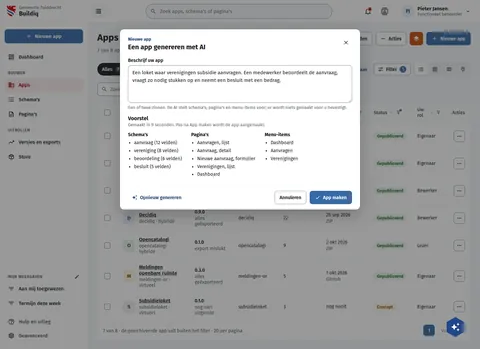
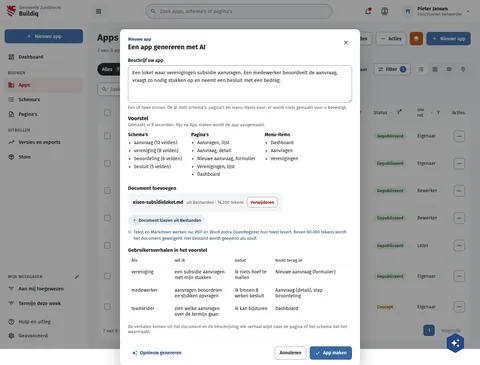
feat(screens): start from a database and a requirements document on the new app boards
Rows: app-create-from-database, ai-spec-to-app.

Assisted-by: ClaudeCode:claude-fable-5-1

diff --git a/preview/screens/boards/BqNieuweApp.html b/preview/screens/boards/BqNieuweApp.html
@@ -307,6 +307,7 @@ a{color:var(--sc-primary, #3669a5)}a:hover{color:var(--sc-primary-deep, #234a78)
           <div style="display: flex; flex-wrap: wrap; gap: 14px; align-items: center"><span title="In de appkop (licht pictogram)" style="width: 48px; height: 48px; border-radius: 10px; background: var(--sc-work-ink, #1b1c1d); color: #ffffff; display: flex; align-items: center; justify-content: center"><svg width="26" height="26" viewbox="0 0 24 24" fill="currentColor" aria-hidden="true"><path d="M5,6H23V18H5V6M14,9A3,3 0 0,1 17,12A3,3 0 0,1 14,15A3,3 0 0,1 11,12A3,3 0 0,1 14,9M9,8A2,2 0 0,1 7,10V14A2,2 0 0,1 9,16H19A2,2 0 0,1 21,14V10A2,2 0 0,1 19,8H9M1,10H3V20H19V22H1V10Z"></path></svg></span><span title="Op een lichte achtergrond (donker pictogram)" style="width: 48px; height: 48px; border-radius: 10px; background: var(--sc-work-chip, #f0f1f3); color: var(--sc-work-ink, #1b1c1d); display: flex; align-items: center; justify-content: center"><svg width="26" height="26" viewbox="0 0 24 24" fill="currentColor" aria-hidden="true"><path d="M5,6H23V18H5V6M14,9A3,3 0 0,1 17,12A3,3 0 0,1 14,15A3,3 0 0,1 11,12A3,3 0 0,1 14,9M9,8A2,2 0 0,1 7,10V14A2,2 0 0,1 9,16H19A2,2 0 0,1 21,14V10A2,2 0 0,1 19,8H9M1,10H3V20H19V22H1V10Z"></path></svg></span><button type="button" style="display: flex; align-items: center; gap: 8px; height: 40px; padding: 0 14px; border: 1px solid var(--sc-work-field, #828a95); border-radius: 8px; background: #ffffff; font: 600 14px var(--sc-font, 'Fira Sans'), sans-serif; color: var(--sc-work-ink, #1b1c1d)"><svg width="16" height="16" viewbox="0 0 24 24" fill="currentColor" aria-hidden="true"><path d="M9,10V16H15V10H19L12,3L5,10H9M12,5.8L14.2,8H13V14H11V8H9.8L12,5.8M19,18H5V20H19V18Z"></path></svg>Eigen SVG uploaden</button><a href="#" style="font-size: 14px; font-weight: 600">Een donkere variant toevoegen</a></div>
         </div>
       </div>
+      <div style="padding: 0 24px 20px; display: flex; flex-direction: column; gap: 16px"><fieldset style="border: 0; margin: 0; padding: 0; display: flex; flex-direction: column; gap: 10px"><legend style="font-size: 15px; font-weight: 700; padding: 0 0 6px">Beginnen vanuit een database</legend><div style="display: flex; flex-wrap: wrap; gap: 18px; align-items: flex-end"><label for="f1" style="display: flex; gap: 10px; align-items: flex-start; font-size: 15px; position: relative"><input id="f1" type="radio" name="st" style="position: absolute; opacity: 0; width: 20px; height: 20px; margin: 0"><span aria-hidden="true" style="flex: none; width: 20px; height: 20px; box-sizing: border-box; border-radius: 10px; border: 2px solid var(--sc-work-muted, #5e6168); display: flex; align-items: center; justify-content: center; margin-top: 1px"></span><span>Leeg</span></label><label for="f2" style="display: flex; gap: 10px; align-items: flex-start; font-size: 15px; position: relative"><input id="f2" type="radio" name="st" style="position: absolute; opacity: 0; width: 20px; height: 20px; margin: 0"><span aria-hidden="true" style="flex: none; width: 20px; height: 20px; box-sizing: border-box; border-radius: 10px; border: 2px solid var(--sc-work-muted, #5e6168); display: flex; align-items: center; justify-content: center; margin-top: 1px"></span><span>Vanuit een sjabloon</span></label><label for="f3" style="display: flex; gap: 10px; align-items: flex-start; font-size: 15px; position: relative"><input id="f3" type="radio" name="st" style="position: absolute; opacity: 0; width: 20px; height: 20px; margin: 0"><span aria-hidden="true" style="flex: none; width: 20px; height: 20px; box-sizing: border-box; border-radius: 10px; border: 2px solid var(--sc-work-muted, #5e6168); display: flex; align-items: center; justify-content: center; margin-top: 1px"></span><span>Genereren met AI</span></label><label for="f4" style="display: flex; gap: 10px; align-items: flex-start; font-size: 15px; position: relative"><input id="f4" type="radio" name="st" checked style="position: absolute; opacity: 0; width: 20px; height: 20px; margin: 0"><span aria-hidden="true" style="flex: none; width: 20px; height: 20px; box-sizing: border-box; border-radius: 10px; border: 2px solid var(--sc-primary, #3669a5); display: flex; align-items: center; justify-content: center; margin-top: 1px"><span style="width: 10px; height: 10px; border-radius: 5px; background: var(--sc-primary, #3669a5)"></span></span><span>Vanuit een database</span></label></div><div style="display: grid; grid-template-columns: repeat(auto-fit, minmax(150px, 1fr)); gap: 12px"><div style="display: flex; flex-direction: column; gap: 6px; min-width: 0"><label for="f5" style="font-size: 14px; font-weight: 600">Gekoppelde database</label><button type="button" id="f5" aria-haspopup="listbox" style="display: flex; align-items: center; justify-content: space-between; gap: 8px; height: 40px; box-sizing: border-box; width: 100%; border: 1px solid var(--sc-work-field, #828a95); border-radius: 8px; padding: 0 12px; background: #ffffff; font: 400 15px var(--sc-font, 'Fira Sans'), sans-serif; color: var(--sc-work-ink, #1b1c1d); text-align: left"><span style="overflow: hidden; text-overflow: ellipsis; white-space: nowrap">crm-legacy (PostgreSQL, alleen lezen)</span><svg width="18" height="18" viewbox="0 0 24 24" fill="currentColor"><path d="M7.41,8.58L12,13.17L16.59,8.58L18,10L12,16L6,10L7.41,8.58Z"></path></svg></button></div></div><table style="width: 100%; border-collapse: collapse"><thead><tr><th scope="col" style="text-align: left; padding: 8px 10px; font-size: 13px; color: var(--sc-work-muted, #5e6168); font-weight: 600; border-bottom: 1px solid var(--sc-work-line, #e4e6ea); width: 200px">Tabel</th><th scope="col" style="text-align: left; padding: 8px 10px; font-size: 13px; color: var(--sc-work-muted, #5e6168); font-weight: 600; border-bottom: 1px solid var(--sc-work-line, #e4e6ea); width: 90px">Rijen</th><th scope="col" style="text-align: left; padding: 8px 10px; font-size: 13px; color: var(--sc-work-muted, #5e6168); font-weight: 600; border-bottom: 1px solid var(--sc-work-line, #e4e6ea)">Pagina's die ontstaan</th></tr></thead><tbody><tr><td style="padding: 10px 10px; font-size: 14px; border-bottom: 1px solid var(--sc-work-soft, #eef0f3); vertical-align: top"><label for="f6" style="display: flex; gap: 10px; align-items: flex-start; font-size: 15px; position: relative"><input id="f6" type="checkbox" checked style="position: absolute; opacity: 0; width: 20px; height: 20px; margin: 0"><span aria-hidden="true" style="flex: none; width: 20px; height: 20px; box-sizing: border-box; border-radius: 4px; margin-top: 1px; display: flex; align-items: center; justify-content: center; border: 2px solid var(--sc-primary, #3669a5); background: var(--sc-primary, #3669a5); color: #ffffff"><svg width="14" height="14" viewbox="0 0 24 24" fill="currentColor"><path d="M21,7L9,19L3.5,13.5L4.91,12.09L9,16.17L19.59,5.59L21,7Z"></path></svg></span><span>klanten</span></label></td><td style="padding: 10px 10px; font-size: 14px; border-bottom: 1px solid var(--sc-work-soft, #eef0f3); vertical-align: top">12.480</td><td style="padding: 10px 10px; font-size: 14px; border-bottom: 1px solid var(--sc-work-soft, #eef0f3); vertical-align: top">Klanten (lijst), Klant (detail)</td></tr><tr><td style="padding: 10px 10px; font-size: 14px; border-bottom: 1px solid var(--sc-work-soft, #eef0f3); vertical-align: top"><label for="f7" style="display: flex; gap: 10px; align-items: flex-start; font-size: 15px; position: relative"><input id="f7" type="checkbox" checked style="position: absolute; opacity: 0; width: 20px; height: 20px; margin: 0"><span aria-hidden="true" style="flex: none; width: 20px; height: 20px; box-sizing: border-box; border-radius: 4px; margin-top: 1px; display: flex; align-items: center; justify-content: center; border: 2px solid var(--sc-primary, #3669a5); background: var(--sc-primary, #3669a5); color: #ffffff"><svg width="14" height="14" viewbox="0 0 24 24" fill="currentColor"><path d="M21,7L9,19L3.5,13.5L4.91,12.09L9,16.17L19.59,5.59L21,7Z"></path></svg></span><span>contracten</span></label></td><td style="padding: 10px 10px; font-size: 14px; border-bottom: 1px solid var(--sc-work-soft, #eef0f3); vertical-align: top">31.902</td><td style="padding: 10px 10px; font-size: 14px; border-bottom: 1px solid var(--sc-work-soft, #eef0f3); vertical-align: top">Contracten (lijst), Contract (detail)</td></tr><tr><td style="padding: 10px 10px; font-size: 14px; border-bottom: 1px solid var(--sc-work-soft, #eef0f3); vertical-align: top"><label for="f8" style="display: flex; gap: 10px; align-items: flex-start; font-size: 15px; position: relative"><input id="f8" type="checkbox" style="position: absolute; opacity: 0; width: 20px; height: 20px; margin: 0"><span aria-hidden="true" style="flex: none; width: 20px; height: 20px; box-sizing: border-box; border-radius: 4px; margin-top: 1px; display: flex; align-items: center; justify-content: center; border: 2px solid var(--sc-work-muted, #5e6168); background: #ffffff"></span><span>facturen</span></label></td><td style="padding: 10px 10px; font-size: 14px; border-bottom: 1px solid var(--sc-work-soft, #eef0f3); vertical-align: top">88.115</td><td style="padding: 10px 10px; font-size: 14px; border-bottom: 1px solid var(--sc-work-soft, #eef0f3); vertical-align: top"></td></tr></tbody></table><div style="display: flex; gap: 6px; align-items: flex-start; font-size: 13px; line-height: 1.45; color: var(--sc-primary-deep, #234a78)"><svg width="16" height="16" viewbox="0 0 24 24" fill="currentColor"><path d="M11,9H13V7H11M12,20C7.59,20 4,16.41 4,12C4,7.59 7.59,4 12,4C16.41,4 20,7.59 20,12C20,16.41 16.41,20 12,20M12,2A10,10 0 0,0 2,12A10,10 0 0,0 12,22A10,10 0 0,0 22,12A10,10 0 0,0 12,2M11,17H13V11H11V17Z"></path></svg><span>De database wordt dataregister van de app; per aangevinkte tabel komt er een lijst- en een detailpagina. Een register zonder databasebron of dat u niet mag lezen, wordt geweigerd en er wordt niets gemaakt.</span></div></fieldset></div>
       <div style="display: flex; flex-wrap: wrap; justify-content: flex-end; align-items: center; gap: 10px; padding: 16px 24px; border-top: 1px solid var(--sc-work-soft, #eef0f3)"><button type="button" style="display: inline-flex; align-items: center; gap: 8px; height: 40px; padding: 0 14px; box-sizing: border-box; border: 1px solid var(--sc-work-field, #828a95); border-radius: 8px; background: #ffffff; font: 600 14px var(--sc-font, 'Fira Sans'), sans-serif; color: var(--sc-work-ink, #1b1c1d); white-space: nowrap">Annuleren</button><button type="button" style="display: inline-flex; align-items: center; gap: 8px; height: 40px; padding: 0 16px; border: 0; border-radius: 8px; background: var(--sc-primary, #3669a5); color: #ffffff; font: 600 14px var(--sc-font, 'Fira Sans'), sans-serif; white-space: nowrap">Volgende<svg width="16" height="16" viewbox="0 0 24 24" fill="currentColor" aria-hidden="true"><path d="M8.59,16.58L13.17,12L8.59,7.41L10,6L16,12L10,18L8.59,16.58Z"></path></svg></button></div>
     </div>
   </div>

diff --git a/screens-src/zuiddrecht/BqNieuweApp.dc.html b/screens-src/zuiddrecht/BqNieuweApp.dc.html
@@ -114,12 +114,13 @@ a{color:#3669a5}a:hover{color:#234a78}
           <div style="display: flex; flex-wrap: wrap; gap: 14px; align-items: center"><span title="In de appkop (licht pictogram)" style="width: 48px; height: 48px; border-radius: 10px; background: #1b1c1d; color: #ffffff; display: flex; align-items: center; justify-content: center"><svg width="26" height="26" viewBox="0 0 24 24" fill="currentColor" aria-hidden="true"><path d="M5,6H23V18H5V6M14,9A3,3 0 0,1 17,12A3,3 0 0,1 14,15A3,3 0 0,1 11,12A3,3 0 0,1 14,9M9,8A2,2 0 0,1 7,10V14A2,2 0 0,1 9,16H19A2,2 0 0,1 21,14V10A2,2 0 0,1 19,8H9M1,10H3V20H19V22H1V10Z"></path></svg></span><span title="Op een lichte achtergrond (donker pictogram)" style="width: 48px; height: 48px; border-radius: 10px; background: #f0f1f3; color: #1b1c1d; display: flex; align-items: center; justify-content: center"><svg width="26" height="26" viewBox="0 0 24 24" fill="currentColor" aria-hidden="true"><path d="M5,6H23V18H5V6M14,9A3,3 0 0,1 17,12A3,3 0 0,1 14,15A3,3 0 0,1 11,12A3,3 0 0,1 14,9M9,8A2,2 0 0,1 7,10V14A2,2 0 0,1 9,16H19A2,2 0 0,1 21,14V10A2,2 0 0,1 19,8H9M1,10H3V20H19V22H1V10Z"></path></svg></span><button type="button" style="display: flex; align-items: center; gap: 8px; height: 40px; padding: 0 14px; border: 1px solid #828a95; border-radius: 8px; background: #ffffff; font: 600 14px 'Fira Sans', sans-serif; color: #1b1c1d"><svg width="16" height="16" viewBox="0 0 24 24" fill="currentColor" aria-hidden="true"><path d="M9,10V16H15V10H19L12,3L5,10H9M12,5.8L14.2,8H13V14H11V8H9.8L12,5.8M19,18H5V20H19V18Z"></path></svg>Eigen SVG uploaden</button><a href="#" style="font-size: 14px; font-weight: 600">Een donkere variant toevoegen</a></div>
         </div>
       </div>
+      <div style="padding: 0 24px 20px; display: flex; flex-direction: column; gap: 16px"><fieldset style="border: 0; margin: 0; padding: 0; display: flex; flex-direction: column; gap: 10px"><legend style="font-size: 15px; font-weight: 700; padding: 0 0 6px">Beginnen vanuit een database</legend><div style="display: flex; flex-wrap: wrap; gap: 18px; align-items: flex-end"><label for="f1" style="display: flex; gap: 10px; align-items: flex-start; font-size: 15px; position: relative"><input id="f1" type="radio" name="st" style="position: absolute; opacity: 0; width: 20px; height: 20px; margin: 0"><span aria-hidden="true" style="flex: none; width: 20px; height: 20px; box-sizing: border-box; border-radius: 10px; border: 2px solid #5e6168; display: flex; align-items: center; justify-content: center; margin-top: 1px"></span><span>Leeg</span></label><label for="f2" style="display: flex; gap: 10px; align-items: flex-start; font-size: 15px; position: relative"><input id="f2" type="radio" name="st" style="position: absolute; opacity: 0; width: 20px; height: 20px; margin: 0"><span aria-hidden="true" style="flex: none; width: 20px; height: 20px; box-sizing: border-box; border-radius: 10px; border: 2px solid #5e6168; display: flex; align-items: center; justify-content: center; margin-top: 1px"></span><span>Vanuit een sjabloon</span></label><label for="f3" style="display: flex; gap: 10px; align-items: flex-start; font-size: 15px; position: relative"><input id="f3" type="radio" name="st" style="position: absolute; opacity: 0; width: 20px; height: 20px; margin: 0"><span aria-hidden="true" style="flex: none; width: 20px; height: 20px; box-sizing: border-box; border-radius: 10px; border: 2px solid #5e6168; display: flex; align-items: center; justify-content: center; margin-top: 1px"></span><span>Genereren met AI</span></label><label for="f4" style="display: flex; gap: 10px; align-items: flex-start; font-size: 15px; position: relative"><input id="f4" type="radio" name="st" checked style="position: absolute; opacity: 0; width: 20px; height: 20px; margin: 0"><span aria-hidden="true" style="flex: none; width: 20px; height: 20px; box-sizing: border-box; border-radius: 10px; border: 2px solid #3669a5; display: flex; align-items: center; justify-content: center; margin-top: 1px"><span style="width: 10px; height: 10px; border-radius: 5px; background: #3669a5"></span></span><span>Vanuit een database</span></label></div><div style="display: grid; grid-template-columns: repeat(auto-fit, minmax(150px, 1fr)); gap: 12px"><div style="display: flex; flex-direction: column; gap: 6px; min-width: 0"><label for="f5" style="font-size: 14px; font-weight: 600">Gekoppelde database</label><button type="button" id="f5" aria-haspopup="listbox" style="display: flex; align-items: center; justify-content: space-between; gap: 8px; height: 40px; box-sizing: border-box; width: 100%; border: 1px solid #828a95; border-radius: 8px; padding: 0 12px; background: #ffffff; font: 400 15px 'Fira Sans', sans-serif; color: #1b1c1d; text-align: left"><span style="overflow: hidden; text-overflow: ellipsis; white-space: nowrap">crm-legacy (PostgreSQL, alleen lezen)</span><svg width="18" height="18" viewBox="0 0 24 24" fill="currentColor"><path d="M7.41,8.58L12,13.17L16.59,8.58L18,10L12,16L6,10L7.41,8.58Z"></path></svg></button></div></div><table style="width: 100%; border-collapse: collapse"><thead><tr><th scope="col" style="text-align: left; padding: 8px 10px; font-size: 13px; color: #5e6168; font-weight: 600; border-bottom: 1px solid #e4e6ea; width: 200px">Tabel</th><th scope="col" style="text-align: left; padding: 8px 10px; font-size: 13px; color: #5e6168; font-weight: 600; border-bottom: 1px solid #e4e6ea; width: 90px">Rijen</th><th scope="col" style="text-align: left; padding: 8px 10px; font-size: 13px; color: #5e6168; font-weight: 600; border-bottom: 1px solid #e4e6ea">Pagina's die ontstaan</th></tr></thead><tbody><tr><td style="padding: 10px 10px; font-size: 14px; border-bottom: 1px solid #eef0f3; vertical-align: top"><label for="f6" style="display: flex; gap: 10px; align-items: flex-start; font-size: 15px; position: relative"><input id="f6" type="checkbox" checked style="position: absolute; opacity: 0; width: 20px; height: 20px; margin: 0"><span aria-hidden="true" style="flex: none; width: 20px; height: 20px; box-sizing: border-box; border-radius: 4px; margin-top: 1px; display: flex; align-items: center; justify-content: center; border: 2px solid #3669a5; background: #3669a5; color: #ffffff"><svg width="14" height="14" viewBox="0 0 24 24" fill="currentColor"><path d="M21,7L9,19L3.5,13.5L4.91,12.09L9,16.17L19.59,5.59L21,7Z"></path></svg></span><span>klanten</span></label></td><td style="padding: 10px 10px; font-size: 14px; border-bottom: 1px solid #eef0f3; vertical-align: top">12.480</td><td style="padding: 10px 10px; font-size: 14px; border-bottom: 1px solid #eef0f3; vertical-align: top">Klanten (lijst), Klant (detail)</td></tr><tr><td style="padding: 10px 10px; font-size: 14px; border-bottom: 1px solid #eef0f3; vertical-align: top"><label for="f7" style="display: flex; gap: 10px; align-items: flex-start; font-size: 15px; position: relative"><input id="f7" type="checkbox" checked style="position: absolute; opacity: 0; width: 20px; height: 20px; margin: 0"><span aria-hidden="true" style="flex: none; width: 20px; height: 20px; box-sizing: border-box; border-radius: 4px; margin-top: 1px; display: flex; align-items: center; justify-content: center; border: 2px solid #3669a5; background: #3669a5; color: #ffffff"><svg width="14" height="14" viewBox="0 0 24 24" fill="currentColor"><path d="M21,7L9,19L3.5,13.5L4.91,12.09L9,16.17L19.59,5.59L21,7Z"></path></svg></span><span>contracten</span></label></td><td style="padding: 10px 10px; font-size: 14px; border-bottom: 1px solid #eef0f3; vertical-align: top">31.902</td><td style="padding: 10px 10px; font-size: 14px; border-bottom: 1px solid #eef0f3; vertical-align: top">Contracten (lijst), Contract (detail)</td></tr><tr><td style="padding: 10px 10px; font-size: 14px; border-bottom: 1px solid #eef0f3; vertical-align: top"><label for="f8" style="display: flex; gap: 10px; align-items: flex-start; font-size: 15px; position: relative"><input id="f8" type="checkbox" style="position: absolute; opacity: 0; width: 20px; height: 20px; margin: 0"><span aria-hidden="true" style="flex: none; width: 20px; height: 20px; box-sizing: border-box; border-radius: 4px; margin-top: 1px; display: flex; align-items: center; justify-content: center; border: 2px solid #5e6168; background: #ffffff"></span><span>facturen</span></label></td><td style="padding: 10px 10px; font-size: 14px; border-bottom: 1px solid #eef0f3; vertical-align: top">88.115</td><td style="padding: 10px 10px; font-size: 14px; border-bottom: 1px solid #eef0f3; vertical-align: top"></td></tr></tbody></table><div style="display: flex; gap: 6px; align-items: flex-start; font-size: 13px; line-height: 1.45; color: #234a78"><svg width="16" height="16" viewBox="0 0 24 24" fill="currentColor"><path d="M11,9H13V7H11M12,20C7.59,20 4,16.41 4,12C4,7.59 7.59,4 12,4C16.41,4 20,7.59 20,12C20,16.41 16.41,20 12,20M12,2A10,10 0 0,0 2,12A10,10 0 0,0 12,22A10,10 0 0,0 22,12A10,10 0 0,0 12,2M11,17H13V11H11V17Z"></path></svg><span>De database wordt dataregister van de app; per aangevinkte tabel komt er een lijst- en een detailpagina. Een register zonder databasebron of dat u niet mag lezen, wordt geweigerd en er wordt niets gemaakt.</span></div></fieldset></div>
       <div style="display: flex; flex-wrap: wrap; justify-content: flex-end; align-items: center; gap: 10px; padding: 16px 24px; border-top: 1px solid #eef0f3"><button type="button" style="display: inline-flex; align-items: center; gap: 8px; height: 40px; padding: 0 14px; box-sizing: border-box; border: 1px solid #828a95; border-radius: 8px; background: #ffffff; font: 600 14px 'Fira Sans', sans-serif; color: #1b1c1d; white-space: nowrap">Annuleren</button><button type="button" style="display: inline-flex; align-items: center; gap: 8px; height: 40px; padding: 0 16px; border: 0; border-radius: 8px; background: #3669a5; color: #ffffff; font: 600 14px 'Fira Sans', sans-serif; white-space: nowrap">Volgende<svg width="16" height="16" viewBox="0 0 24 24" fill="currentColor" aria-hidden="true"><path d="M8.59,16.58L13.17,12L8.59,7.41L10,6L16,12L10,18L8.59,16.58Z"></path></svg></button></div>
     </div>
   </div>
 </div>
 </x-dc>
-<script type="text/x-dc" data-dc-script data-props='{"$preview":{"width":1440,"height":906}}'>
+<script type="text/x-dc" data-dc-script data-props='{"$preview":{"width":1440,"height":1500}}'>
 class Component extends DCLogic {
   renderVals() {
     const nav = [

diff --git a/preview/screens/boards/BqGenererenMetAI.html b/preview/screens/boards/BqGenererenMetAI.html
@@ -295,6 +295,7 @@ a{color:var(--sc-primary, #3669a5)}a:hover{color:var(--sc-primary-deep, #234a78)
         <button type="button" aria-label="Sluiten" style="flex: none; width: 36px; height: 36px; border: 0; border-radius: 18px; background: transparent; color: var(--sc-work-text, #3d4047); display: flex; align-items: center; justify-content: center; padding: 0"><svg width="20" height="20" viewbox="0 0 24 24" fill="currentColor" aria-hidden="true"><path d="M19,6.41L17.59,5L12,10.59L6.41,5L5,6.41L10.59,12L5,17.59L6.41,19L12,13.41L17.59,19L19,17.59L13.41,12L19,6.41Z"></path></svg></button>
       </div>
       <div style="padding: 16px 24px 20px; display: flex; flex-direction: column; gap: 16px"><div style="display: flex; flex-direction: column; gap: 14px; min-width: 0"><div style="display: flex; flex-direction: column; gap: 6px; min-width: 0"><label for="f11" style="font-size: 14px; font-weight: 600">Beschrijf uw app</label><textarea id="f11" rows="4" style="box-sizing: border-box; width: 100%; border: 1px solid var(--sc-work-field, #828a95); border-radius: 8px; padding: 10px 12px; font: 400 15px var(--sc-font, 'Fira Sans'), sans-serif; color: var(--sc-work-ink, #1b1c1d); background: #ffffff; line-height: 1.5; resize: vertical">Een loket waar verenigingen subsidie aanvragen. Een medewerker beoordeelt de aanvraag, vraagt zo nodig stukken op en neemt een besluit met een bedrag.</textarea><span style="font-size: 13px; color: var(--sc-work-muted, #5e6168); line-height: 1.4">Een of twee zinnen. De AI stelt schema's, pagina's en menu-items voor; er wordt niets gemaakt voor u bevestigt.</span></div><div><h3 style="margin: 0; font-size: 16px; font-weight: 700">Voorstel</h3><p style="margin: 2px 0 0; font-size: 13px; color: var(--sc-work-muted, #5e6168)">Gemaakt in 9 seconden. Pas na App maken wordt de app aangemaakt.</p></div><div style="display: flex; flex-wrap: wrap; gap: 28px; align-items: flex-start"><div style="display: flex; flex-direction: column; gap: 4px; min-width: 0"><span style="font-size: 14px; font-weight: 700">Schema's</span><ul style="margin: 0; padding-left: 18px; font-size: 14px; line-height: 1.7"><li>aanvraag (12 velden)</li><li>vereniging (8 velden)</li><li>beoordeling (6 velden)</li><li>besluit (5 velden)</li></ul></div><div style="display: flex; flex-direction: column; gap: 4px; min-width: 0"><span style="font-size: 14px; font-weight: 700">Pagina's</span><ul style="margin: 0; padding-left: 18px; font-size: 14px; line-height: 1.7"><li>Aanvragen, lijst</li><li>Aanvraag, detail</li><li>Nieuwe aanvraag, formulier</li><li>Verenigingen, lijst</li><li>Dashboard</li></ul></div><div style="display: flex; flex-direction: column; gap: 4px; min-width: 0"><span style="font-size: 14px; font-weight: 700">Menu-items</span><ul style="margin: 0; padding-left: 18px; font-size: 14px; line-height: 1.7"><li>Dashboard</li><li>Aanvragen</li><li>Verenigingen</li></ul></div></div></div></div>
+      <div style="padding: 0 24px 20px; display: flex; flex-direction: column; gap: 16px"><fieldset style="border: 0; margin: 0; padding: 0; display: flex; flex-direction: column; gap: 10px"><legend style="font-size: 15px; font-weight: 700; padding: 0 0 6px">Document toevoegen</legend><div style="display: flex; flex-wrap: wrap; gap: 10px; align-items: center"><div style="display: flex; align-items: center; gap: 10px; padding: 10px 14px; border: 1px solid var(--sc-work-line, #e4e6ea); border-radius: 10px; background: var(--sc-work-ground, #f5f6f8)"><strong style="font-size: 14px">eisen-subsidieloket.md</strong><span style="font-size: 13px; color: var(--sc-work-muted, #5e6168)">uit Bestanden · 14.200 tekens</span><button type="button" style="display: inline-flex; align-items: center; gap: 6px; height: 32px; padding: 0 10px; border: 1px solid var(--sc-work-field, #828a95); border-radius: 8px; background: #ffffff; font: 600 13px var(--sc-font, 'Fira Sans'), sans-serif; color: var(--sc-work-ink, #1b1c1d); white-space: nowrap; color: var(--sc-accent-deep, #a30000)">Verwijderen</button></div><button type="button" style="align-self: flex-start; display: inline-flex; align-items: center; gap: 6px; height: 34px; padding: 0 12px; border: 0; border-radius: 17px; background: var(--sc-primary-light, #eaf0f7); color: var(--sc-primary-deep, #234a78); font: 600 13px var(--sc-font, 'Fira Sans'), sans-serif; white-space: nowrap"><svg width="14" height="14" viewbox="0 0 24 24" fill="currentColor"><path d="M19,13H13V19H11V13H5V11H11V5H13V11H19V13Z"></path></svg>Document kiezen uit Bestanden</button></div><div style="display: flex; gap: 6px; align-items: flex-start; font-size: 13px; line-height: 1.45; color: var(--sc-primary-deep, #234a78)"><svg width="16" height="16" viewbox="0 0 24 24" fill="currentColor"><path d="M11,9H13V7H11M12,20C7.59,20 4,16.41 4,12C4,7.59 7.59,4 12,4C16.41,4 20,7.59 20,12C20,16.41 16.41,20 12,20M12,2A10,10 0 0,0 2,12A10,10 0 0,0 12,22A10,10 0 0,0 22,12A10,10 0 0,0 12,2M11,17H13V11H11V17Z"></path></svg><span>Tekst en Markdown werken nu; PDF en Word zodra OpenRegister hun tekst levert. Boven 60.000 tekens wordt het document geweigerd. Het bestand wordt geopend als uzelf.</span></div></fieldset><fieldset style="border: 0; margin: 0; padding: 0; display: flex; flex-direction: column; gap: 10px"><legend style="font-size: 15px; font-weight: 700; padding: 0 0 6px">Gebruikersverhalen in het voorstel</legend><table style="width: 100%; border-collapse: collapse"><thead><tr><th scope="col" style="text-align: left; padding: 8px 10px; font-size: 13px; color: var(--sc-work-muted, #5e6168); font-weight: 600; border-bottom: 1px solid var(--sc-work-line, #e4e6ea); width: 110px">Als</th><th scope="col" style="text-align: left; padding: 8px 10px; font-size: 13px; color: var(--sc-work-muted, #5e6168); font-weight: 600; border-bottom: 1px solid var(--sc-work-line, #e4e6ea)">wil ik</th><th scope="col" style="text-align: left; padding: 8px 10px; font-size: 13px; color: var(--sc-work-muted, #5e6168); font-weight: 600; border-bottom: 1px solid var(--sc-work-line, #e4e6ea)">zodat</th><th scope="col" style="text-align: left; padding: 8px 10px; font-size: 13px; color: var(--sc-work-muted, #5e6168); font-weight: 600; border-bottom: 1px solid var(--sc-work-line, #e4e6ea); width: 220px">Komt terug in</th></tr></thead><tbody><tr><td style="padding: 10px 10px; font-size: 14px; border-bottom: 1px solid var(--sc-work-soft, #eef0f3); vertical-align: top">vereniging</td><td style="padding: 10px 10px; font-size: 14px; border-bottom: 1px solid var(--sc-work-soft, #eef0f3); vertical-align: top">een subsidie aanvragen met mijn stukken</td><td style="padding: 10px 10px; font-size: 14px; border-bottom: 1px solid var(--sc-work-soft, #eef0f3); vertical-align: top">ik niets hoef te mailen</td><td style="padding: 10px 10px; font-size: 14px; border-bottom: 1px solid var(--sc-work-soft, #eef0f3); vertical-align: top">Nieuwe aanvraag (formulier)</td></tr><tr><td style="padding: 10px 10px; font-size: 14px; border-bottom: 1px solid var(--sc-work-soft, #eef0f3); vertical-align: top">medewerker</td><td style="padding: 10px 10px; font-size: 14px; border-bottom: 1px solid var(--sc-work-soft, #eef0f3); vertical-align: top">aanvragen beoordelen en stukken opvragen</td><td style="padding: 10px 10px; font-size: 14px; border-bottom: 1px solid var(--sc-work-soft, #eef0f3); vertical-align: top">ik binnen 8 weken besluit</td><td style="padding: 10px 10px; font-size: 14px; border-bottom: 1px solid var(--sc-work-soft, #eef0f3); vertical-align: top">Aanvraag (detail), stap beoordeling</td></tr><tr><td style="padding: 10px 10px; font-size: 14px; border-bottom: 1px solid var(--sc-work-soft, #eef0f3); vertical-align: top">teamleider</td><td style="padding: 10px 10px; font-size: 14px; border-bottom: 1px solid var(--sc-work-soft, #eef0f3); vertical-align: top">zien welke aanvragen over de termijn gaan</td><td style="padding: 10px 10px; font-size: 14px; border-bottom: 1px solid var(--sc-work-soft, #eef0f3); vertical-align: top">ik kan bijsturen</td><td style="padding: 10px 10px; font-size: 14px; border-bottom: 1px solid var(--sc-work-soft, #eef0f3); vertical-align: top">Dashboard</td></tr></tbody></table><span style="font-size: 13px; color: var(--sc-work-muted, #5e6168)">De verhalen komen uit het document en de beschrijving; elk verhaal wijst naar de pagina of het schema dat het waarmaakt.</span></fieldset></div>
       <div style="display: flex; flex-wrap: wrap; justify-content: flex-end; align-items: center; gap: 10px; padding: 16px 24px; border-top: 1px solid var(--sc-work-soft, #eef0f3)"><button type="button" style="display: inline-flex; align-items: center; gap: 8px; height: 40px; padding: 0 12px; border: 0; border-radius: 8px; background: transparent; font: 600 14px var(--sc-font, 'Fira Sans'), sans-serif; color: var(--sc-primary-deep, #234a78); white-space: nowrap"><svg width="16" height="16" viewbox="0 0 24 24" fill="currentColor" aria-hidden="true"><path d="M19,1L17.74,3.75L15,5L17.74,6.26L19,9L20.25,6.26L23,5L20.25,3.75M9,4L6.5,9.5L1,12L6.5,14.5L9,20L11.5,14.5L17,12L11.5,9.5M19,15L17.74,17.74L15,19L17.74,20.25L19,23L20.25,20.25L23,19L20.25,17.74"></path></svg>Opnieuw genereren</button><span style="flex: 1"></span><button type="button" style="display: inline-flex; align-items: center; gap: 8px; height: 40px; padding: 0 14px; box-sizing: border-box; border: 1px solid var(--sc-work-field, #828a95); border-radius: 8px; background: #ffffff; font: 600 14px var(--sc-font, 'Fira Sans'), sans-serif; color: var(--sc-work-ink, #1b1c1d); white-space: nowrap">Annuleren</button><button type="button" style="display: inline-flex; align-items: center; gap: 8px; height: 40px; padding: 0 16px; border: 0; border-radius: 8px; background: var(--sc-primary, #3669a5); color: #ffffff; font: 600 14px var(--sc-font, 'Fira Sans'), sans-serif; white-space: nowrap"><svg width="16" height="16" viewbox="0 0 24 24" fill="currentColor" aria-hidden="true"><path d="M21,7L9,19L3.5,13.5L4.91,12.09L9,16.17L19.59,5.59L21,7Z"></path></svg>App maken</button></div>
     </div>
   </div>

diff --git a/screens-src/zuiddrecht/BqGenererenMetAI.dc.html b/screens-src/zuiddrecht/BqGenererenMetAI.dc.html
@@ -102,12 +102,13 @@ a{color:#3669a5}a:hover{color:#234a78}
         <button type="button" aria-label="Sluiten" style="flex: none; width: 36px; height: 36px; border: 0; border-radius: 18px; background: transparent; color: #3d4047; display: flex; align-items: center; justify-content: center; padding: 0"><svg width="20" height="20" viewBox="0 0 24 24" fill="currentColor" aria-hidden="true"><path d="M19,6.41L17.59,5L12,10.59L6.41,5L5,6.41L10.59,12L5,17.59L6.41,19L12,13.41L17.59,19L19,17.59L13.41,12L19,6.41Z"></path></svg></button>
       </div>
       <div style="padding: 16px 24px 20px; display: flex; flex-direction: column; gap: 16px"><div style="display: flex; flex-direction: column; gap: 14px; min-width: 0"><div style="display: flex; flex-direction: column; gap: 6px; min-width: 0"><label for="f11" style="font-size: 14px; font-weight: 600">Beschrijf uw app</label><textarea id="f11" rows="4" style="box-sizing: border-box; width: 100%; border: 1px solid #828a95; border-radius: 8px; padding: 10px 12px; font: 400 15px 'Fira Sans', sans-serif; color: #1b1c1d; background: #ffffff; line-height: 1.5; resize: vertical">Een loket waar verenigingen subsidie aanvragen. Een medewerker beoordeelt de aanvraag, vraagt zo nodig stukken op en neemt een besluit met een bedrag.</textarea><span style="font-size: 13px; color: #5e6168; line-height: 1.4">Een of twee zinnen. De AI stelt schema's, pagina's en menu-items voor; er wordt niets gemaakt voor u bevestigt.</span></div><div><h3 style="margin: 0; font-size: 16px; font-weight: 700">Voorstel</h3><p style="margin: 2px 0 0; font-size: 13px; color: #5e6168">Gemaakt in 9 seconden. Pas na App maken wordt de app aangemaakt.</p></div><div style="display: flex; flex-wrap: wrap; gap: 28px; align-items: flex-start"><div style="display: flex; flex-direction: column; gap: 4px; min-width: 0"><span style="font-size: 14px; font-weight: 700">Schema's</span><ul style="margin: 0; padding-left: 18px; font-size: 14px; line-height: 1.7"><li>aanvraag (12 velden)</li><li>vereniging (8 velden)</li><li>beoordeling (6 velden)</li><li>besluit (5 velden)</li></ul></div><div style="display: flex; flex-direction: column; gap: 4px; min-width: 0"><span style="font-size: 14px; font-weight: 700">Pagina's</span><ul style="margin: 0; padding-left: 18px; font-size: 14px; line-height: 1.7"><li>Aanvragen, lijst</li><li>Aanvraag, detail</li><li>Nieuwe aanvraag, formulier</li><li>Verenigingen, lijst</li><li>Dashboard</li></ul></div><div style="display: flex; flex-direction: column; gap: 4px; min-width: 0"><span style="font-size: 14px; font-weight: 700">Menu-items</span><ul style="margin: 0; padding-left: 18px; font-size: 14px; line-height: 1.7"><li>Dashboard</li><li>Aanvragen</li><li>Verenigingen</li></ul></div></div></div></div>
+      <div style="padding: 0 24px 20px; display: flex; flex-direction: column; gap: 16px"><fieldset style="border: 0; margin: 0; padding: 0; display: flex; flex-direction: column; gap: 10px"><legend style="font-size: 15px; font-weight: 700; padding: 0 0 6px">Document toevoegen</legend><div style="display: flex; flex-wrap: wrap; gap: 10px; align-items: center"><div style="display: flex; align-items: center; gap: 10px; padding: 10px 14px; border: 1px solid #e4e6ea; border-radius: 10px; background: #f5f6f8"><strong style="font-size: 14px">eisen-subsidieloket.md</strong><span style="font-size: 13px; color: #5e6168">uit Bestanden · 14.200 tekens</span><button type="button" style="display: inline-flex; align-items: center; gap: 6px; height: 32px; padding: 0 10px; border: 1px solid #828a95; border-radius: 8px; background: #ffffff; font: 600 13px 'Fira Sans', sans-serif; color: #1b1c1d; white-space: nowrap; color: #a30000">Verwijderen</button></div><button type="button" style="align-self: flex-start; display: inline-flex; align-items: center; gap: 6px; height: 34px; padding: 0 12px; border: 0; border-radius: 17px; background: #eaf0f7; color: #234a78; font: 600 13px 'Fira Sans', sans-serif; white-space: nowrap"><svg width="14" height="14" viewBox="0 0 24 24" fill="currentColor"><path d="M19,13H13V19H11V13H5V11H11V5H13V11H19V13Z"></path></svg>Document kiezen uit Bestanden</button></div><div style="display: flex; gap: 6px; align-items: flex-start; font-size: 13px; line-height: 1.45; color: #234a78"><svg width="16" height="16" viewBox="0 0 24 24" fill="currentColor"><path d="M11,9H13V7H11M12,20C7.59,20 4,16.41 4,12C4,7.59 7.59,4 12,4C16.41,4 20,7.59 20,12C20,16.41 16.41,20 12,20M12,2A10,10 0 0,0 2,12A10,10 0 0,0 12,22A10,10 0 0,0 22,12A10,10 0 0,0 12,2M11,17H13V11H11V17Z"></path></svg><span>Tekst en Markdown werken nu; PDF en Word zodra OpenRegister hun tekst levert. Boven 60.000 tekens wordt het document geweigerd. Het bestand wordt geopend als uzelf.</span></div></fieldset><fieldset style="border: 0; margin: 0; padding: 0; display: flex; flex-direction: column; gap: 10px"><legend style="font-size: 15px; font-weight: 700; padding: 0 0 6px">Gebruikersverhalen in het voorstel</legend><table style="width: 100%; border-collapse: collapse"><thead><tr><th scope="col" style="text-align: left; padding: 8px 10px; font-size: 13px; color: #5e6168; font-weight: 600; border-bottom: 1px solid #e4e6ea; width: 110px">Als</th><th scope="col" style="text-align: left; padding: 8px 10px; font-size: 13px; color: #5e6168; font-weight: 600; border-bottom: 1px solid #e4e6ea">wil ik</th><th scope="col" style="text-align: left; padding: 8px 10px; font-size: 13px; color: #5e6168; font-weight: 600; border-bottom: 1px solid #e4e6ea">zodat</th><th scope="col" style="text-align: left; padding: 8px 10px; font-size: 13px; color: #5e6168; font-weight: 600; border-bottom: 1px solid #e4e6ea; width: 220px">Komt terug in</th></tr></thead><tbody><tr><td style="padding: 10px 10px; font-size: 14px; border-bottom: 1px solid #eef0f3; vertical-align: top">vereniging</td><td style="padding: 10px 10px; font-size: 14px; border-bottom: 1px solid #eef0f3; vertical-align: top">een subsidie aanvragen met mijn stukken</td><td style="padding: 10px 10px; font-size: 14px; border-bottom: 1px solid #eef0f3; vertical-align: top">ik niets hoef te mailen</td><td style="padding: 10px 10px; font-size: 14px; border-bottom: 1px solid #eef0f3; vertical-align: top">Nieuwe aanvraag (formulier)</td></tr><tr><td style="padding: 10px 10px; font-size: 14px; border-bottom: 1px solid #eef0f3; vertical-align: top">medewerker</td><td style="padding: 10px 10px; font-size: 14px; border-bottom: 1px solid #eef0f3; vertical-align: top">aanvragen beoordelen en stukken opvragen</td><td style="padding: 10px 10px; font-size: 14px; border-bottom: 1px solid #eef0f3; vertical-align: top">ik binnen 8 weken besluit</td><td style="padding: 10px 10px; font-size: 14px; border-bottom: 1px solid #eef0f3; vertical-align: top">Aanvraag (detail), stap beoordeling</td></tr><tr><td style="padding: 10px 10px; font-size: 14px; border-bottom: 1px solid #eef0f3; vertical-align: top">teamleider</td><td style="padding: 10px 10px; font-size: 14px; border-bottom: 1px solid #eef0f3; vertical-align: top">zien welke aanvragen over de termijn gaan</td><td style="padding: 10px 10px; font-size: 14px; border-bottom: 1px solid #eef0f3; vertical-align: top">ik kan bijsturen</td><td style="padding: 10px 10px; font-size: 14px; border-bottom: 1px solid #eef0f3; vertical-align: top">Dashboard</td></tr></tbody></table><span style="font-size: 13px; color: #5e6168">De verhalen komen uit het document en de beschrijving; elk verhaal wijst naar de pagina of het schema dat het waarmaakt.</span></fieldset></div>
       <div style="display: flex; flex-wrap: wrap; justify-content: flex-end; align-items: center; gap: 10px; padding: 16px 24px; border-top: 1px solid #eef0f3"><button type="button" style="display: inline-flex; align-items: center; gap: 8px; height: 40px; padding: 0 12px; border: 0; border-radius: 8px; background: transparent; font: 600 14px 'Fira Sans', sans-serif; color: #234a78; white-space: nowrap"><svg width="16" height="16" viewBox="0 0 24 24" fill="currentColor" aria-hidden="true"><path d="M19,1L17.74,3.75L15,5L17.74,6.26L19,9L20.25,6.26L23,5L20.25,3.75M9,4L6.5,9.5L1,12L6.5,14.5L9,20L11.5,14.5L17,12L11.5,9.5M19,15L17.74,17.74L15,19L17.74,20.25L19,23L20.25,20.25L23,19L20.25,17.74"></path></svg>Opnieuw genereren</button><span style="flex: 1"></span><button type="button" style="display: inline-flex; align-items: center; gap: 8px; height: 40px; padding: 0 14px; box-sizing: border-box; border: 1px solid #828a95; border-radius: 8px; background: #ffffff; font: 600 14px 'Fira Sans', sans-serif; color: #1b1c1d; white-space: nowrap">Annuleren</button><button type="button" style="display: inline-flex; align-items: center; gap: 8px; height: 40px; padding: 0 16px; border: 0; border-radius: 8px; background: #3669a5; color: #ffffff; font: 600 14px 'Fira Sans', sans-serif; white-space: nowrap"><svg width="16" height="16" viewBox="0 0 24 24" fill="currentColor" aria-hidden="true"><path d="M21,7L9,19L3.5,13.5L4.91,12.09L9,16.17L19.59,5.59L21,7Z"></path></svg>App maken</button></div>
     </div>
   </div>
 </div>
 </x-dc>
-<script type="text/x-dc" data-dc-script data-props='{"$preview":{"width":1440,"height":906}}'>
+<script type="text/x-dc" data-dc-script data-props='{"$preview":{"width":1440,"height":1700}}'>
 class Component extends DCLogic {
   renderVals() {
     const nav = [
